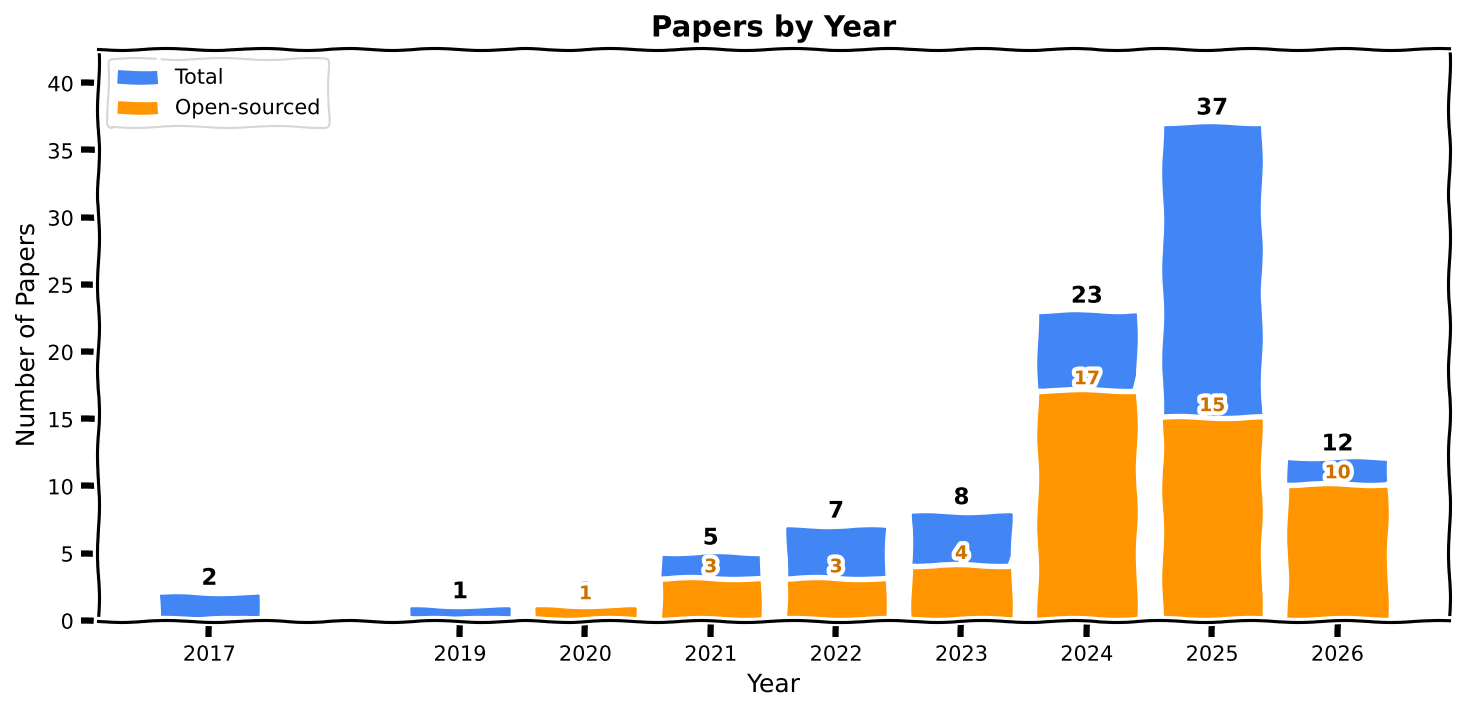
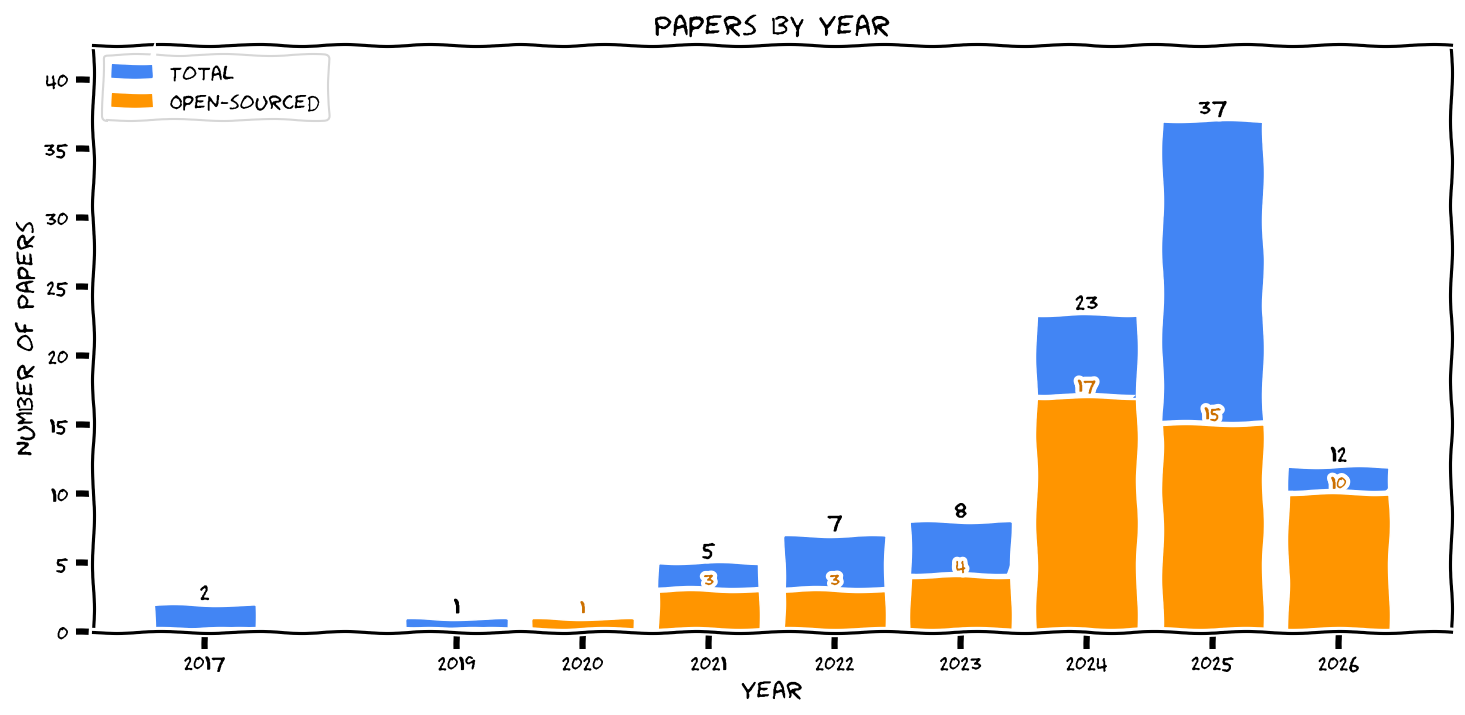
fix: use Humor Sans font for xkcd-style chart
Install Humor Sans font in CI and configure matplotlib to use it,
so the chart text matches the xkcd sketch style.

diff --git a/.github/scripts/generate_papers_chart.py b/.github/scripts/generate_papers_chart.py
@@ -3,8 +3,28 @@ Generate a bar chart showing the number of papers by year.
 Reads the README.md table and creates a PNG image.
 """
 import re
+import shutil
 from collections import defaultdict
+from pathlib import Path
+import matplotlib
 import matplotlib.pyplot as plt
+import matplotlib.font_manager as fm
+
+# Install Humor Sans into matplotlib's font directory if available on the system
+_humor_sans_sources = [
+    Path.home() / 'Library' / 'Fonts' / 'HumorSans.ttf',  # macOS
+    Path.home() / '.local' / 'share' / 'fonts' / 'HumorSans.ttf',  # Linux
+]
+_mpl_ttf_dir = Path(matplotlib.get_data_path()) / 'fonts' / 'ttf'
+for src in _humor_sans_sources:
+    if src.exists():
+        dst = _mpl_ttf_dir / 'HumorSans.ttf'
+        if not dst.exists():
+            shutil.copy2(src, dst)
+        break
+
+# Rebuild font cache so the newly copied font is discovered
+fm._load_fontmanager(try_read_cache=False)
 
 README_PATH = 'README.md'
 TABLE_START_MARKER = '<!-- Table start -->'
@@ -63,6 +83,10 @@ def generate_bar_chart(year_counts, open_source_counts, output_path):
     os_counts = [open_source_counts.get(y, 0) for y in years]
 
     with plt.xkcd():
+        # Override font.family inside the xkcd context so Humor Sans is found
+        matplotlib.rcParams['font.family'] = [
+            'Humor Sans', 'xkcd', 'xkcd Script', 'Comic Neue', 'Comic Sans MS',
+        ]
         plt.figure(figsize=(10, 5))
         # Draw total papers bar (blue)
         bars = plt.bar(years, counts, color='#4285f4', edgecolor='white', linewidth=0.7, label='Total')
